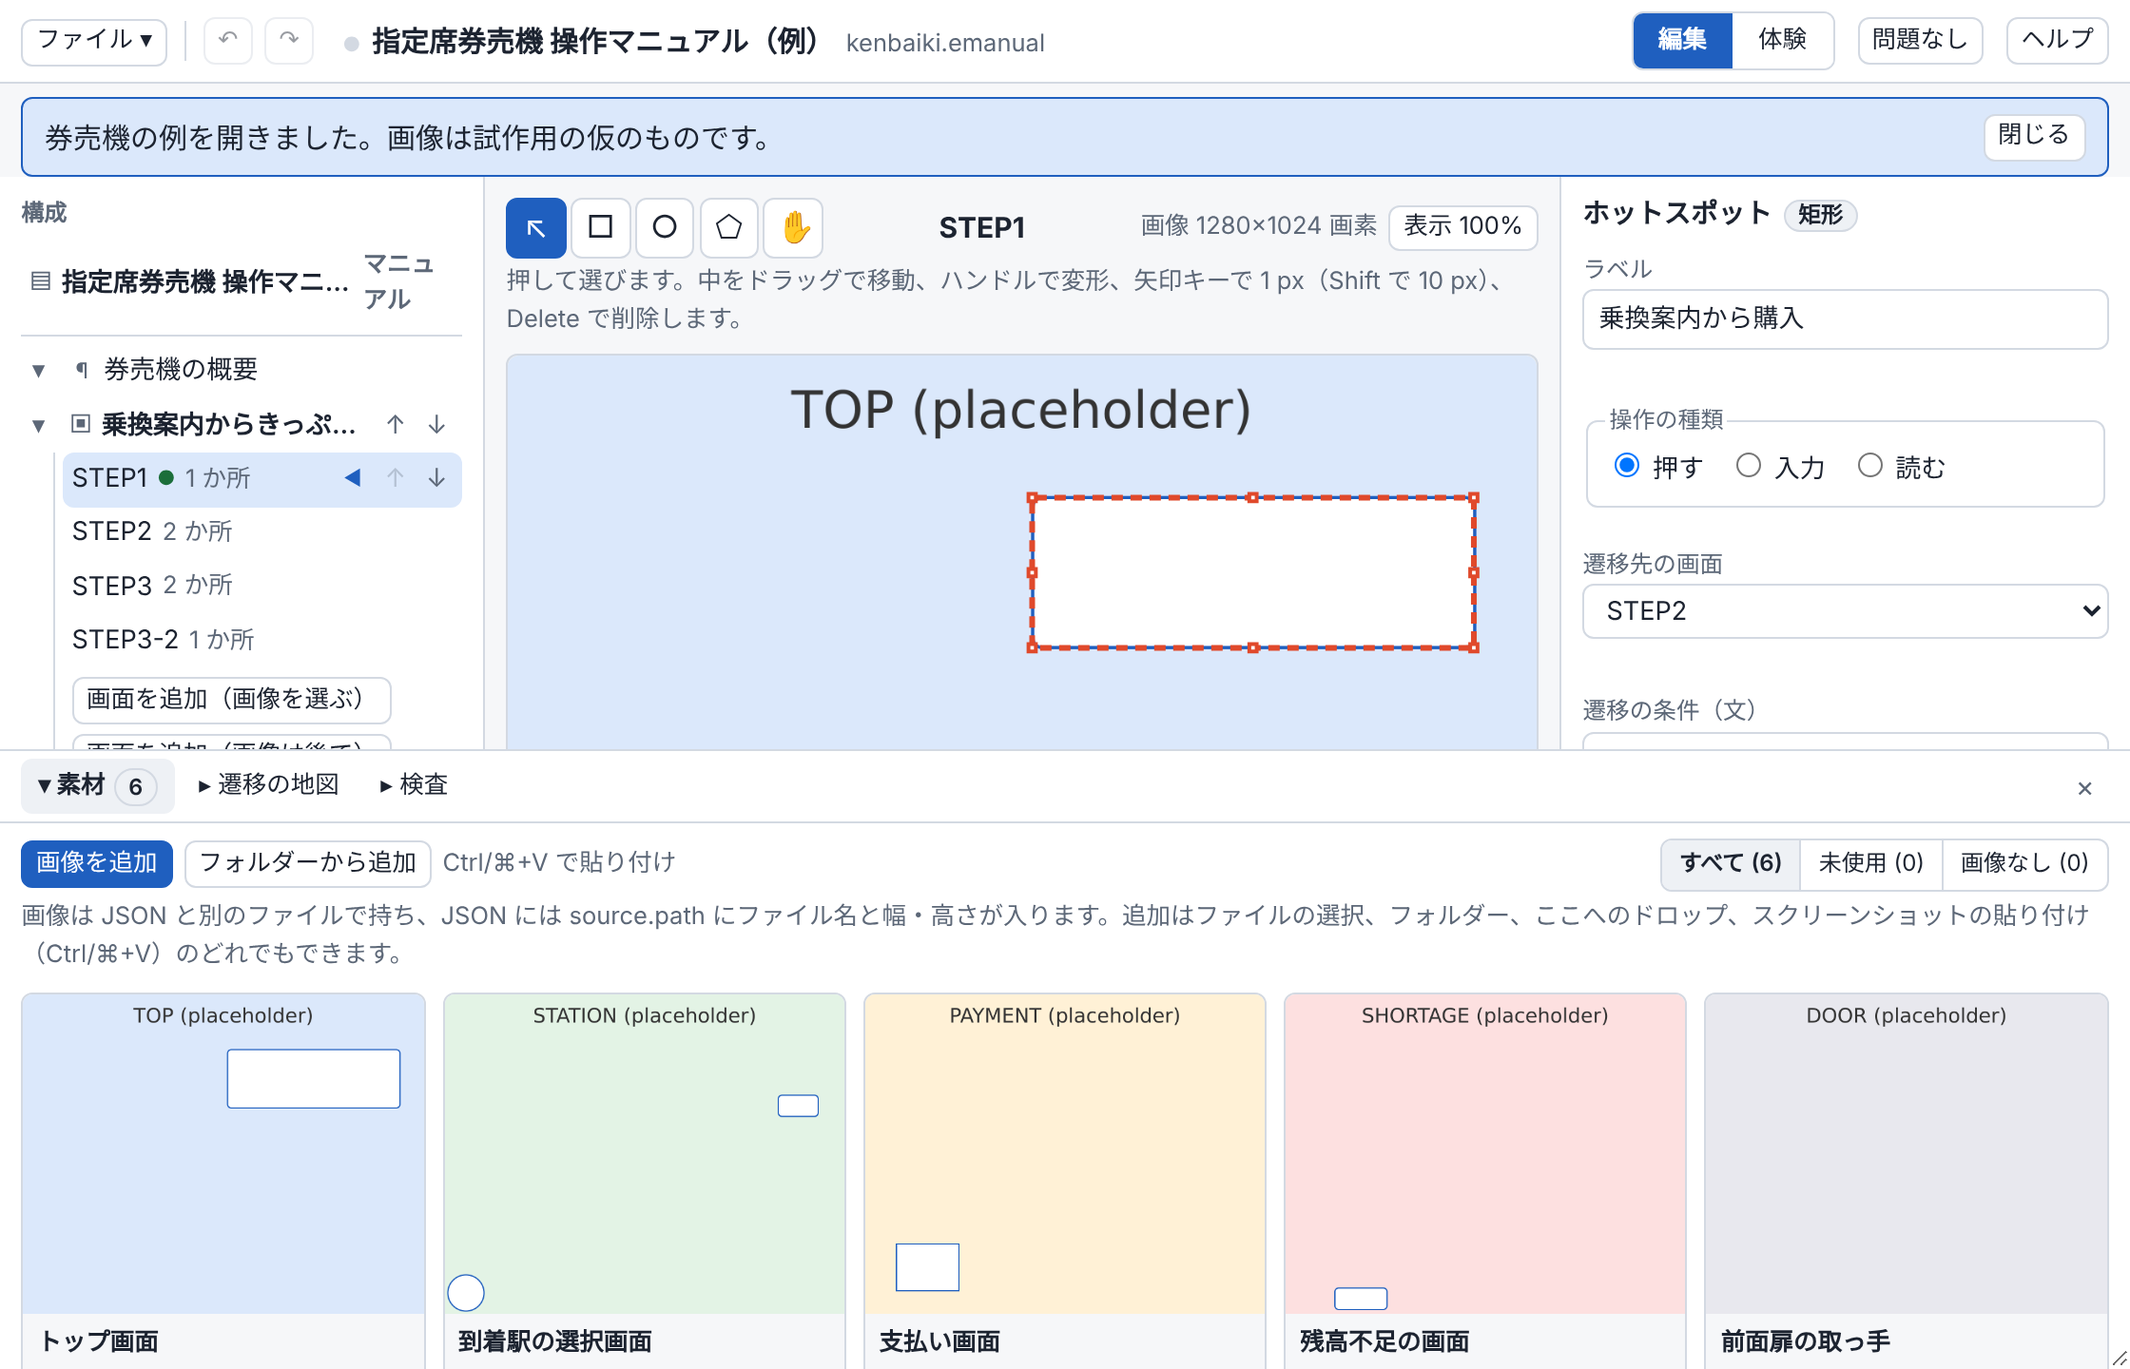
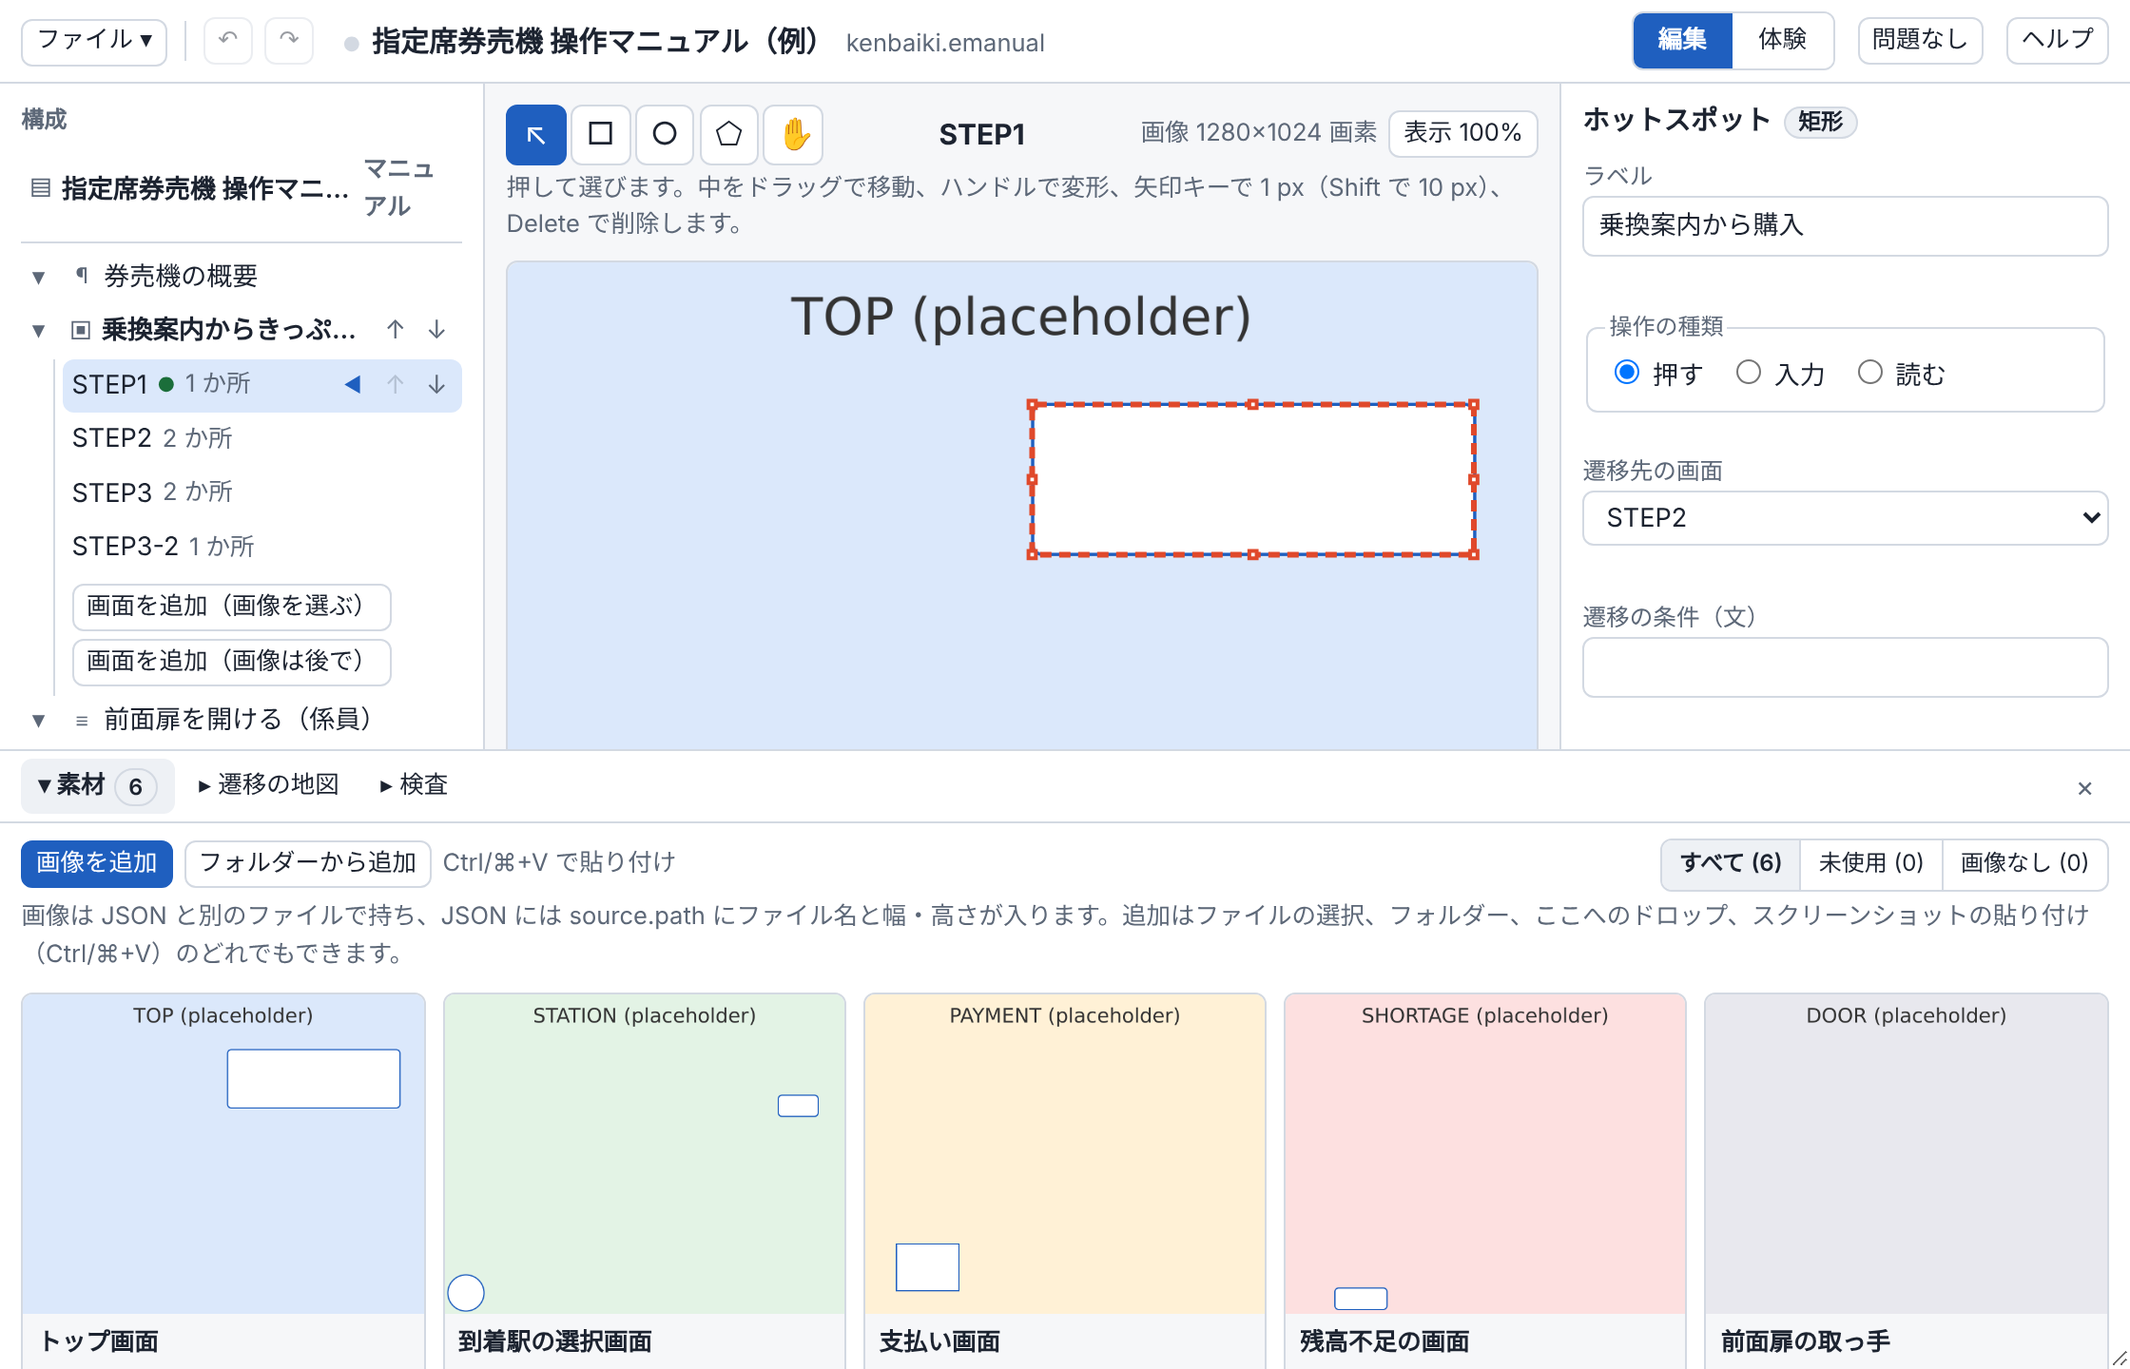
feat: 「保存しました」のような知らせを、5 秒後に消えるようにしました
- info の知らせは画面の右下に重ねて出し、5 秒後に消します。
  マウスを載せている・フォーカスがある間は消さず、離れてから 5 秒を数え直します。
- 警告とエラーは、これまでどおり画面の上の帯に出し、「閉じる」を押すまで残します。
  「2021 年の JSON を変換して取り込みました」も帯に残します。
- 自動で消える知らせを重ねて出すので、消えても画面の配置は動きません。
- ヘルプを作り直しました（撮る前に、重ねて出ている知らせを閉じます）。

svelte-check 0 件、Vitest 96 件、Playwright の E2E 9 本。

Claude-Session: https://claude.ai/code/session_01VhsHBbc9V5Q9QdX23BGbxK

Changed region(s): [[0.0, 0.0625, 1.0, 0.5625], [0.75, 0.5, 0.8438, 0.5312]]

diff --git a/src/lib/state.svelte.ts b/src/lib/state.svelte.ts
@@ -57,7 +57,12 @@ export interface Notice {
   id: number;
   kind: 'info' | 'warn' | 'error';
   text: string;
+  /** しばらくすると自動で消えるか（「保存しました」のような、確かめる必要のない知らせ） */
+  auto: boolean;
 }
+
+/** 自動で消える知らせを出しておく時間 */
+export const NOTICE_MS = 5000;
 
 export interface Selection {
   topicId?: string;
@@ -106,6 +111,7 @@ class EditorState {
   /** handle のファイルを、最後に読んだ・書いた時点の更新時刻。保存の前に、外で書き換えられていないかを確かめる */
   private handleStamp: number | undefined;
   private noticeSeq = 0;
+  private noticeTimers = new Map<number, ReturnType<typeof setTimeout>>();
   private blobUrls = new Set<string>();
   /** 作業場所。init() で OPFS に差し替える（使えなければメモリーのまま） */
   private ws: WorkspaceStore = memoryStore();
@@ -210,11 +216,34 @@ class EditorState {
 
   // ---- 通知 ---------------------------------------------------------------
 
-  notify(kind: Notice['kind'], text: string): void {
-    this.notices = [...this.notices, { id: ++this.noticeSeq, kind, text }];
+  /**
+   * 知らせを出す。info は 5 秒後に自動で消える（画面の隅に重ねて出すので、消えても画面の配置は動かない）。
+   * warn と error、および sticky を付けた info は、「閉じる」を押すまで残る。
+   */
+  notify(kind: Notice['kind'], text: string, options: { sticky?: boolean } = {}): void {
+    const id = ++this.noticeSeq;
+    const auto = kind === 'info' && !options.sticky;
+    this.notices = [...this.notices, { id, kind, text, auto }];
+    if (auto) this.resumeNotice(id);
   }
   dismiss(id: number): void {
+    this.holdNotice(id);
     this.notices = this.notices.filter((n) => n.id !== id);
+  }
+  /** 自動で消えるのを止める（知らせにマウスを載せている・フォーカスがある間） */
+  holdNotice(id: number): void {
+    const timer = this.noticeTimers.get(id);
+    if (timer !== undefined) clearTimeout(timer);
+    this.noticeTimers.delete(id);
+  }
+  /** 自動で消えるまでの時間を、最初から数え直す */
+  resumeNotice(id: number): void {
+    this.holdNotice(id);
+    if (!this.notices.some((n) => n.id === id && n.auto)) return;
+    this.noticeTimers.set(
+      id,
+      setTimeout(() => this.dismiss(id), NOTICE_MS)
+    );
   }
   clearNotices(): void {
     this.notices = [];
@@ -572,7 +601,7 @@ class EditorState {
     this.dirty = parsed.kind === 'legacy' || from.imported === true;
     this.notices = [];
     if (parsed.kind === 'legacy') {
-      this.notify('info', t('open.legacy'));
+      this.notify('info', t('open.legacy'), { sticky: true });
       for (const w of parsed.warnings) this.notify('warn', w);
     }
     this.selectTopic(this.manual.topics[0]?.id);

diff --git a/e2e/editor.spec.ts b/e2e/editor.spec.ts
@@ -8,6 +8,7 @@
  * 6. マニュアルのファイル（.emanual。設計書 13.4 節）: 保存して開き直すと画像ごと戻る。構成の違うものは開かない
  * 7. 展開したフォルダーから取り込む
  * 8. HTML としてエクスポートしたものを file:// で開き、押して進める
+ * 9. 知らせ: 「保存しました」は 5 秒で消え、エラーは「閉じる」を押すまで残る
  */
 import { mkdirSync, mkdtempSync, readFileSync, writeFileSync } from 'node:fs';
 import { tmpdir } from 'node:os';
@@ -475,4 +476,40 @@ test('HTML としてエクスポートすると、1 つの HTML になり、file
   expect(requests.filter((u) => !u.startsWith('file://') && !u.startsWith('data:'))).toEqual([]);
   expect(requests.filter((u) => u.startsWith('file://'))).toHaveLength(1);
   expect(errors).toEqual([]);
+});
+
+test('知らせ: 「保存しました」は 5 秒で消え、エラーは「閉じる」を押すまで残る', async ({ page }) => {
+  await fileMenu(page, 'new');
+  await page.getByTestId('tree-root').click();
+  await page.getByTestId('manual-title').fill('Notice test');
+
+  // エラー（マニュアルのファイルでないものを開く）は、画面の上の帯に出る
+  await page.getByTestId('open-input').setInputFiles({ name: 'x.emanual', mimeType: 'application/octet-stream', buffer: Buffer.from('not a zip') });
+  const error = page.getByTestId('banner').filter({ hasText: 'マニュアルのファイル（.emanual）ではない' });
+  await expect(error).toBeVisible();
+
+  // 「ダウンロードしました」は、画面の隅に重ねて出る。出ても消えても、ステージの位置は動かない
+  const columns = page.locator('.columns');
+  const before = await columns.boundingBox();
+  const download = page.waitForEvent('download');
+  await fileMenu(page, 'save');
+  await download;
+  const toast = page.getByTestId('toast').filter({ hasText: 'Notice test.emanual をダウンロードしました' });
+  await expect(toast).toBeVisible();
+  expect(await columns.boundingBox()).toEqual(before);
+
+  // マウスを載せている間は消えない。外すと、そこから 5 秒で消える
+  await toast.hover();
+  await page.waitForTimeout(6000);
+  await expect(toast).toBeVisible();
+  await page.mouse.move(5, 300);
+  await page.waitForTimeout(3000);
+  await expect(toast).toBeVisible();
+  await expect(toast).toBeHidden({ timeout: 4000 });
+  expect(await columns.boundingBox()).toEqual(before);
+
+  // エラーは残っていて、「閉じる」で消える
+  await expect(error).toBeVisible();
+  await error.getByRole('button').click();
+  await expect(error).toBeHidden();
 });

diff --git a/src/routes/+page.svelte b/src/routes/+page.svelte
@@ -101,12 +101,31 @@
 <div class="app">
   <TopBar />
 
-  {#each editor.notices as n (n.id)}
-    <div class="banner {n.kind}" role={n.kind === 'error' ? 'alert' : 'status'}>
+  <!-- 確かめる必要のある知らせ（警告・エラーなど）: 「閉じる」を押すまで、画面の上に帯で出す -->
+  {#each editor.notices.filter((n) => !n.auto) as n (n.id)}
+    <div class="banner {n.kind}" role={n.kind === 'error' ? 'alert' : 'status'} data-testid="banner">
       <span>{n.text}</span>
       <button class="btn small" type="button" onclick={() => editor.dismiss(n.id)}>{t('common.close')}</button>
     </div>
   {/each}
+  <!-- 「保存しました」のような知らせ: 画面の隅に重ねて出し、5 秒後に消す。マウスを載せている・フォーカスがある間は消さない -->
+  <div class="toasts" aria-live="polite">
+    {#each editor.notices.filter((n) => n.auto) as n (n.id)}
+      <!-- svelte-ignore a11y_no_static_element_interactions -->
+      <div
+        class="toast"
+        role="status"
+        data-testid="toast"
+        onmouseenter={() => editor.holdNotice(n.id)}
+        onmouseleave={() => editor.resumeNotice(n.id)}
+        onfocusin={() => editor.holdNotice(n.id)}
+        onfocusout={() => editor.resumeNotice(n.id)}
+      >
+        <span>{n.text}</span>
+        <button class="btn small" type="button" onclick={() => editor.dismiss(n.id)}>{t('common.close')}</button>
+      </div>
+    {/each}
+  </div>
 
   <div class="columns">
     <aside class="col tree"><StructureTree /></aside>
@@ -240,6 +259,30 @@
     border-radius: var(--radius);
     background: var(--accent-soft);
     border: 1px solid var(--accent);
+  }
+  .toasts {
+    position: fixed;
+    right: var(--gap);
+    bottom: 3rem;
+    z-index: 30;
+    display: flex;
+    flex-direction: column;
+    gap: 0.5rem;
+    width: min(26rem, calc(100vw - 2 * var(--gap)));
+    pointer-events: none;
+  }
+  .toast {
+    display: flex;
+    gap: 0.75rem;
+    justify-content: space-between;
+    align-items: center;
+    padding: 0.55rem 0.75rem;
+    border-radius: var(--radius);
+    background: var(--surface);
+    border: 1px solid var(--accent);
+    border-left-width: 4px;
+    box-shadow: 0 6px 20px rgb(0 0 0 / 0.18);
+    pointer-events: auto;
   }
   .banner.warn {
     background: var(--warn-soft);

diff --git a/docs/notes/handoff.md b/docs/notes/handoff.md
@@ -48,7 +48,7 @@
 
 > [!IMPORTANT]
 > **2026-11-14 に、データの扱いを取り決めました（未実装）**。編集は常にブラウザーの中の workspace（OPFS）で行い、保存は 1 冊を 1 つの zip（`manual.json` ＋ `assets/`）にして書き出します。配布は閲覧パッケージ（先に単一の HTML、後にフォルダー）で、受け取った側は体験モードで開き、編集するときは複製します。取り決めの全文と作る順序は [design/player-and-editor.md](../design/player-and-editor.md) 13 節です。下の候補より先に、13.7 節の順で進める想定です。
-> **データの扱いの実装は一通り済み**（workspace、マニュアルのファイル `.emanual` の読み書きと構成の検査、「ファイル」のメニュー、展開したフォルダーからの取り込み、単一の HTML のエクスポート。記録は 13.8〜13.11 節。svelte-check 0 件、Vitest 96 件、E2E 8 本）。2026-11-15 に、Read Only と player 付きの zip は取り下げ、Player は別に提供して `.emanual` を開く形にすると決めた。**次は 13.11 節の「これから作るもの」**（`.emanual` を読む処理を player のパッケージへ移す → Player で `.emanual` を開く）。Mac の Chrome で、上書き保存と、エクスポートした HTML をダブルクリックで開けることを一度手で確かめる。
+> **データの扱いの実装は一通り済み**（workspace、マニュアルのファイル `.emanual` の読み書きと構成の検査、「ファイル」のメニュー、展開したフォルダーからの取り込み、単一の HTML のエクスポート。記録は 13.8〜13.11 節。svelte-check 0 件、Vitest 96 件、E2E 9 本。知らせの出し方は 13.12 節）。2026-11-15 に、Read Only と player 付きの zip は取り下げ、Player は別に提供して `.emanual` を開く形にすると決めた。**次は 13.11 節の「これから作るもの」**（`.emanual` を読む処理を player のパッケージへ移す → Player で `.emanual` を開く）。Mac の Chrome で、上書き保存と、エクスポートした HTML をダブルクリックで開けることを一度手で確かめる。
 
 1. **公開の準備**: 製品名は Experiential Manual Editor に決まった（2026-11-14、D-30）。README・画面・manifest の「仮称」を製品名に直し、`packages/player` の npm 公開（`private: true` を外す）、GitHub Pages への配備（`deploy.yml`。リポジトリを Public にするか）
 2. **学習サイトへの埋め込み**: s1000d-stack の `site/` に `dist/element/experiential-manual.js` と券売機の例を置く（手順 3 の残り。置き方は公開の形と合わせて決める）
@@ -68,7 +68,7 @@ npm run check      # svelte-check
 npm test           # Vitest
 npm run build      # build/（adapter-static、PWA）
 npx playwright install chromium   # 初回だけ
-npm run test:e2e   # ビルドして Playwright（e2e/editor.spec.ts の 8 本）
+npm run test:e2e   # ビルドして Playwright（e2e/editor.spec.ts の 9 本）
 npm run make:help  # ビルドして、ヘルプ（static/help/）を editor の画面から作り直す
 ```
 

diff --git a/docs/design/player-and-editor.md b/docs/design/player-and-editor.md
@@ -609,3 +609,16 @@ flowchart LR
 | 2 | Player で `.emanual` を開く | `<experiential-manual src="guide.emanual">` と、閲覧用のアプリ（PWA）。提供の形（ライブラリか、アプリか、両方か）はここで決める |
 | 3 | `.emanual` の関連付け | PWA の manifest の `file_handlers` と `launchQueue`。インストールした PWA でしか確かめられないので、配備の後に作る。対応状況は実装の前に確かめる |
 | 4 | 製品名の表記 | 画面の題名、manifest、README の「仮称」、ヘルプの中の「manual-editor」を Experiential Manual Editor に直す |
+
+### 13.12 知らせの出し方（2026-11-15）
+
+| 種類 | 出し方 | 消え方 |
+|---|---|---|
+| info（「保存しました」「エクスポートしました」「画像を追加しました」など） | 画面の右下に重ねて出す（`data-testid="toast"`）。画面の配置を動かさない | 5 秒後（`NOTICE_MS`）に自動で消える。マウスを載せている・フォーカスがある間は消さず、離れてから 5 秒を数え直す。「閉じる」でも消せる |
+| warn・error | 画面の上の帯（`data-testid="banner"`）。これまでどおり | 「閉じる」を押すまで残る |
+| 残しておく info（`notify(…, { sticky: true })`。いまは「2021 年の JSON を変換して取り込みました」だけ） | 画面の上の帯 | 「閉じる」を押すまで残る |
+
+- 自動で消える知らせを帯のまま（画面の流れの中）に置くと、消えたときにステージが上へ動き、作図の途中で押す場所がずれる。このため、自動で消えるものだけを重ねて出す形にした。
+- `scripts/make-help.mjs` は、撮る前に重ねて出ている知らせを閉じる（撮る時刻で写ったり写らなかったりしないように）。
+- 確かめ: E2E の 9 本目（エラーは帯に出て残る、「ダウンロードしました」は重ねて出てステージの位置が動かない、マウスを載せている間は消えない、離して 5 秒で消える）。
+

diff --git a/README.md b/README.md
@@ -44,6 +44,7 @@ To build for GitHub Pages, set the repository name: `BASE_PATH=/manual-editor np
 - **Check** (bottom drawer): lists the errors and warnings of `validateManual` grouped by Topic, with the location as names ("screen › hotspot") and the common messages in Japanese. Selecting an item moves to the Topic, screen, step or asset; unreachable screens have a "show on map" button. Saving reports remaining errors without blocking the save.
 - **Edit | Play**: switched on the same stage. Play is the viewer component itself (`packages/player`): pressing a hotspot moves to its target, with back and restart. The screen reached while playing is selected when you switch back to edit. Procedure, description and troubleshooting topics can be played too.
 - **Undo / redo**.
+- **Notices**: a notice such as "Saved" appears in a corner of the screen and disappears after 5 seconds (it stays while the pointer is over it). Warnings and errors appear in a bar at the top and stay until you press "Close".
 - **Picks up where you left off**: the manual you are editing is kept in a workspace inside the browser (Origin Private File System) as `manual.json` plus `assets/`. `manual.json` is written after each edit and images are written when you add them, so closing the tab does not lose your work. Pasted and masked images are kept too.
 
 ## What it does not do
